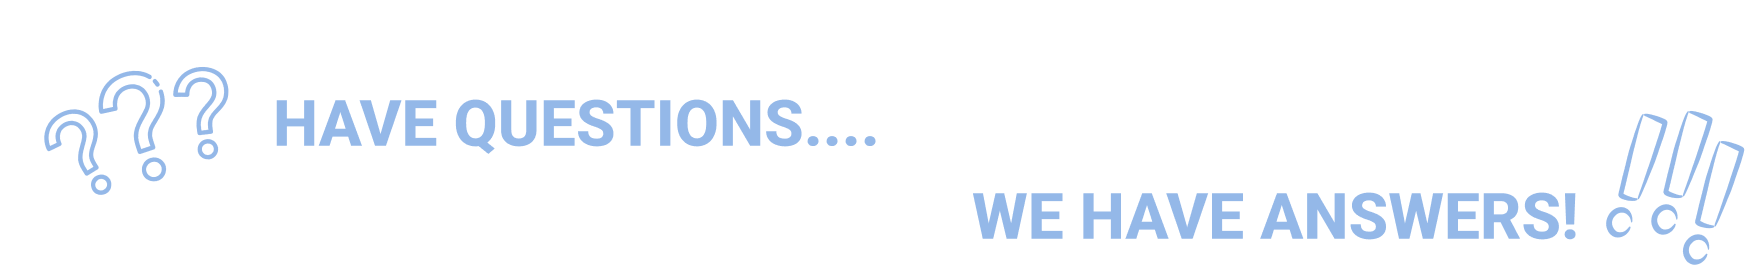
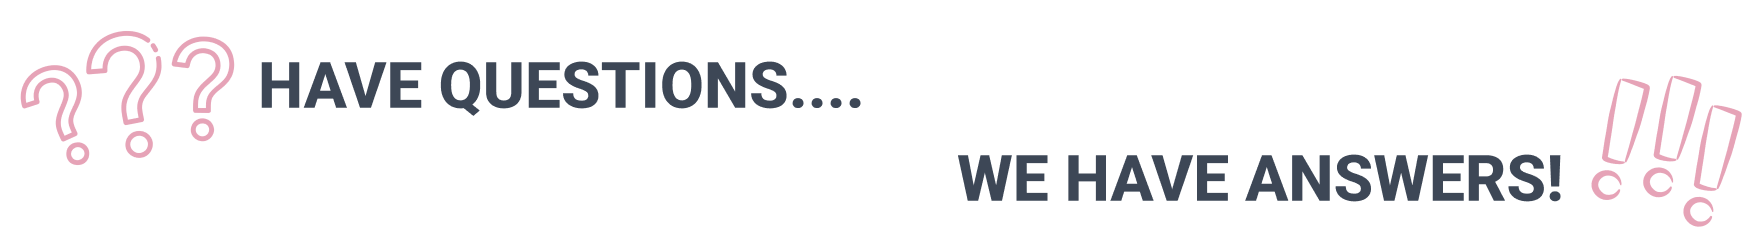
fix font sizes and colors

Changed region(s): [[0.0, 0.1172, 0.4997, 0.7029], [0.5309, 0.3222, 0.9994, 0.9665]]

diff --git a/css/style.css b/css/style.css
@@ -69,6 +69,7 @@ body {
     background-color: #94B8E8;
     display:flex;
     align-items: center;
+    height: 90vh;
 }
 
 .about-body-text {
@@ -77,19 +78,22 @@ body {
 }
 
 .about-img {
-    width: 34%;
+    width: 28%;
     height: auto;
-    margin: 122px 5%;
+    margin: 90px 5%;
 }
 
 .about-body-text h1 {
-    font-size: 3vw;
+    font-size: 48px;
     font-weight: bold;
+    color: #3D4756;
 }
 
 .about-body-text p {
-    font-size: 1.8vw;
+    font-size: 24px;
     font-weight: normal;
+    margin-right: 10vw;
+    max-width: 40vw;
 }
 
 .faq-header-img {
@@ -101,15 +105,15 @@ body {
 .faq-body {
     background-color: #94B8E8;
     color: white;
-    padding: 74px 109px;
+    padding: 60px 109px;
 }
 
 .faq-body p {
-    font-size: 2vw;
+    font-size: 24px;
 }
 
 .faq-body h2 {
-    font-size: 2vw;
+    font-size: 24px;
 }
 
 .food-header {

diff --git a/faq.html b/faq.html
@@ -28,8 +28,10 @@
     <div class="faq-body">
         <h2>Where the heck even is Ottawa??</h2>
         <p>Ottawa is actually the capital of Canada! It&#39s in the province of Ontario. It&#39s 2 hours from Montreal and right across the bridge from Gatineau, Quebec.</p>
+        </br>
         <h2>Everyone says Ottawa is boring, all there is to see is Parrliament, why should I even bother visiting?</h2>
         <p>Well you&#39ve come to the right place! I used to think Ottawa was boring af too, but it actually has a lot to offer (surprisingly)! Check out our list of things to do: .</p>
+        </br>
         <h2>When should I visit Ottawa?</h2>
         <p>Depends on what activities you&#39re looking to do! There&#39s a lot of different adventures for every season. Check out our list of things to do: .</p>
     </div>
